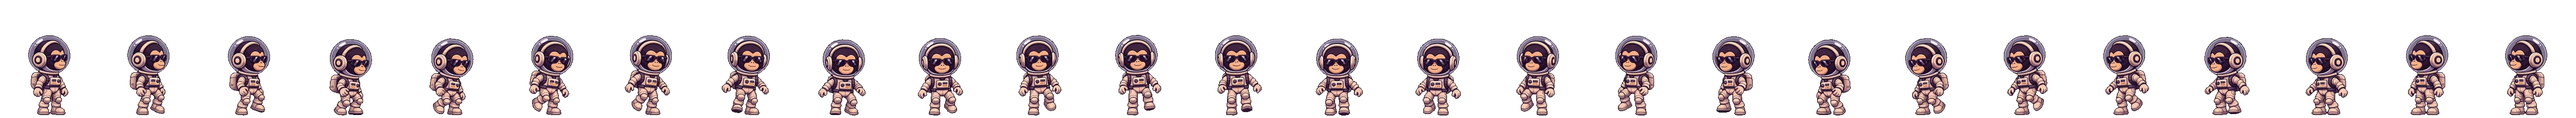
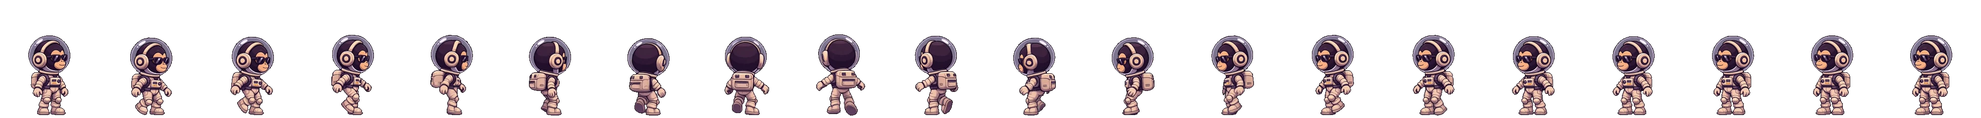
feat(home): 방향 돌기를 깡충 도는 클립으로 교체

diff --git a/apps/web/components/hud/Zannabi.tsx b/apps/web/components/hud/Zannabi.tsx
@@ -16,7 +16,7 @@ const CLIPS: Record<Clip, Spec> = {
   walk: { frames: 14, cols: [14, 14], advance: [0, 6, 7, 8, 10, 6, 12, 3, 7, 8, 11, 8, 6, 9] },
   turn: { frames: 16, cols: [16, 16], advance: [2, 4, 7, 6, 7, 3, 2, 0, 5, 7, 6, 6, 7, 5, 2, 1] },
   'turn-stop': { frames: 8, cols: [8, 8], advance: [12, 13, 0, 0, 0, 0, 0, 0] },
-  'turn-around': { frames: 26, cols: [26, 26], start: 1, fps: 20 },
+  'turn-around': { frames: 20, cols: [20, 20], fps: 18 },
   wave: { frames: 22, cols: [22, 22] },
   look: { frames: 26, cols: [26, 26] },
   yawn: { frames: 26, cols: [26, 26] },

diff --git a/art/scripts/zannabi_v4.py b/art/scripts/zannabi_v4.py
@@ -18,7 +18,7 @@ CLIPS = {
     'walk': ('walkB', list(range(0, 28, 2))),
     'turn': ('turnA', list(range(4, 36, 2))),
     'turn-stop': ('stopA', list(range(30, 46, 2))),
-    'turn-around': ('aroundB', EVEN[1:-1]),
+    'turn-around': ('uturn2', EVEN[1:21]),
     'wave': ('waveVB', EVEN[1:23]),
     'look': ('lookA', EVEN[1:-1]),
     'yawn': ('yawnA', EVEN[1:-1]),

diff --git a/docs/DESIGN.md b/docs/DESIGN.md
@@ -90,7 +90,7 @@
 | **Ask Zannabi** | 공개 글·프로젝트·이력에 관한 질문 | 질문 → 대화 패널, 답변과 원문 링크. 서버가 없어 우선 UI만 (`COMING SOON`) |
 | **레트로 단말기** | Ask Zannabi의 시각적 상징 | 대기 중 커서 깜빡임, 답변 생성 중 화면 변화 |
 | **Arcade 배너** | 대표 미니게임 또는 게임 목록 진입 | `Play`. 게임 전까지 `COMING SOON` |
-| **Zannabi** | 창틀 아래 데크를 걷는 마스코트. 활동 구역은 L(왼쪽 창틀 안쪽 모서리)부터 R = C + (C − L)까지(C는 화면에 렌더된 로고의 가로 중심, 2026-11-19 사용자 지정). R부터 오른쪽 창틀까지는 위젯 영역이고, 경계선은 그리지 않는다 | `Zannabi.tsx`. 레인 폭은 로고 `offsetLeft`로 R − L을 재서 넣고 화면·로고 크기가 바뀌면 다시 잰다. 이동 범위는 보이는 몸의 반폭 64u 기준. **v4 그림체(2026-11-19)**: 의자·데스크와 같은 ChatGPT 그림체로 바꿨다(`art/refs/zannabi-gpt-{style,walk,back}-v1.png` = 대기·걷기·뒷모습 기준). AutoSprite 캐릭터 `zannabi-v4`에 세 자세를 640 캔버스(1.743배, 중심 320, 밑창 544, 헬멧 중심 맞춤)로 올려 모든 클립의 시작·끝을 고정하고, 768px 원본으로 생성한다(작은 캐릭터+큰 캔버스라 광선검·깡충이 잘리지 않음). `art/scripts/zannabi_v4.py`가 한 번 정한 변환(2.08배, 176, 164)으로 칸에 옮기고 가장자리 회색 번짐을 외곽선색으로 바꿔 1배·2배 WebP 띠를 만든다(원본 시트는 저장소 밖 `Downloads/zannabi-v4/raw`, 채택 시트 id는 같은 폴더 `jobs.txt`). 픽셀 합성은 하지 않는다. 클립 21개: 대기(7fps, 숨 사이 1~3초 정지 — 쉬지 않고 숨쉬면 꿈틀거려 보였다), 걷기 시작·걷기(14장, 지지발 템플릿 매칭으로 잰 `advance`)·멈춤, 방향 돌기, 인사, 두리번, 하품, 졸기, 깡충, 광선검, 의자 독서(앉기·책장 넘기기·끄덕임·일어서기), 창밖 보기(뒤돌기·숨쉬기·고개 갸웃·한 손 대기·올려다보기·정면 복귀). 모든 클립 사이 이음매 차이는 1 이하. 클립마다 그리기 범위(box)가 있어 칸 밖으로 나가는 광선검(-52~265u)·깡충도 공통 캔버스에 그린다. 화면 밀도(dpr>1.25)에 맞는 한 벌만 받고, 대기·걷기 계열을 먼저 받은 뒤 나머지는 뒤에서 받는다. 아직 못 받은 클립이 필요한 행동은 고르지 않는다. 행동 가중치: 걷기 40, 두리번 12, 창밖 보기 12, 독서 10, 수련 8, 하품 8, 졸기 6, 깡충 6. 장소 목록(`places`: 독서=의자 중심+22u·오른쪽 보기, 수련=홀로그램 더미 앞 칼끝 240u·오른쪽 보기, 조종=데스크 30%·오른쪽 보기)이 설 자리·바라볼 방향·장면을 한곳에 갖고, 동선 계획기(`route`)가 모든 이동을 맡는다(돌아다니기 포함). 걸음 수를 정하고 보폭을 0.7~1.3배로 맞춰 정확히 도착하며, 걸음 수는 반올림·내림·올림을 차례로 시도한다. 96u보다 가까우면 걷기 반복 없이 출발→멈춤만 하는 짧은 이동(보폭 0.7~1배 = 67~95u, 보폭이 크면 다리가 툭 바뀌어 보여 작게만 쓴다), 그보다 가까우면 한 번 비켜 섰다가(목적지에서 137u 또는 1.5배 떨어진 곳) 다시 온다. 4u 이내면 걷지 않는다. 2026-11-19 추가 클립(모두 대기 자세에서 시작·끝): 마우스가 잔나비 몸 폭의 1.8배 안으로 다가오면 쉬고 있을 때 깜짝 놀라 쳐다본다(notice, 25초 쿨다운). 평소 무작위 행동에 음악(music 6)·춤(dance 5)·저중력 점프(moonjump 5)·기지개(stretch 5)·데크에 앉기(sitdeck 4)·휘청(wobble 3) 추가. 수련 끝에 더미에게 인사(bow). 단말기 장면은 뒤돌기 → 오른쪽 보는 뒷모습으로 두드리기 2번(type=RtypeB) → 정면 복귀하며 42 → 엄지 척(thumbs). 뒷모습 손 높이에 맞춰 드론 데크 자리는 bottom 8cqh, 잔나비는 28u 앞. 버린 후보: 헬멧 닦기·재채기·무전(말풍선 글자). 창밖 보기도 장소다: 의자·데스크·홀로그램·단말기 데크 자리 앞을 피해(몸 반폭만큼 여유) 가장 넓은 빈 데크 가운데로 가서 오른쪽을 보고 뒤돈다(물건 앞에서 창밖을 보면 어색하다, 2026-11-19). 걷는 중에 같은 방향 장소를 요청하면 멈추지 않고 이번 걸음이 끝나는 지점부터 걸음 수·보폭을 다시 맞춰 이어 걷는다(멈췄다 제자리에서 다시 출발하는 게 어색했다). 반대 방향이면 멈추고 돈다. 장소 요청: 의자·데스크·홀로그램 투사기(꺼져 있을 때 보이는 바닥 받침)·잔나비를 누르고 0.9초 버티면(툴팁 게이지가 가득 차면) 독서·조종·수련·인사를 한다. 짧은 클릭이나 올려 두기로는 아무 일도 없고, 중간에 떼면 게이지가 튕기듯 돌아간다. 이미 그 장소로 가는 중이거나 장면을 하는 중이면 무시하고, 마무리 단계(일어서기·정면 복귀 등)면 받아서 끝난 뒤 다시 한다. 끼어들기 규칙(인사·장소 클릭 공통): 앉아 있으면 일어서기만, 조종 중이면 정면 복귀만, 창밖 보기 중이면 정면 복귀만 남기고, 수련은 끝까지 한다. 걷는 중이면 이번 걸음에서 멈추고 남은 장면을 버린 뒤 새 요청을 한다. 대기 중엔 숨 동작 한 바퀴를 기다리지 않고 0번 프레임과 차이가 작은 칸(0~3, 11~14, 23~27)에서 바로 시작해 길어야 1초 안에 반응한다. 인사는 쿨다운 없음, 앉아 있으면 일어선 뒤 인사. 마우스를 올리면 물건 외곽선이 연초록으로 빛나고 위에 툴팁(Read a book·Pilot the ship·Saber training·Say hi + 화살표, 가운데 정렬)이 뜬다. 툴팁은 #262626 알약에 연초록 얇은 테두리, 누르는 동안 왼쪽부터 연초록이 차오르고 찬 부분 글자는 어둡게 반전된다(DesignBookmark Hold Button은 느낌만 참고해 다시 만듦). 동작 줄이기면 대기 첫 프레임만. 조종석: 등받이 없는 의자(`cockpit-stool.webp`, left 16.75cqh, 높이 7.1cqh — 앉는 클립 재생 중엔 숨김)와 데스크(`cockpit-desk.webp`, 오른쪽 끝에 책 더미·메모, left 28.64cqh, bottom 1cqh, 높이 16.74cqh, 조종간 보라 버튼·주황 불빛은 CSS 깜빡임). 수련: 활동 구역 오른쪽 끝의 홀로그램 투사기(`hologram-dummy.webp`, AutoSprite 에셋 애니메이션 h2를 거꾸로 = 빛기둥이 내려와 아래부터 차오름, 끝나면 납작해져 빛기둥으로 꺼짐, 초록 그대로) 앞에서 광선검을 휘두르고, 칼끝이 닿는 프레임에 더미가 번쩍이고 흔들린다. 광선검은 끝까지 오른쪽을 보고 베고 찌르는 saberS1·saberS3 중 무작위(2026-11-19, 몸을 돌려 반대쪽을 베던 saberA 교체). 칼과 궤적이 768 생성 칸 밖으로 잘리지 않게 대기 자세를 0.8배로 줄인 'V4 Idle Small 0.8'에서 생성하고, 빌드 스크립트의 클립별 배율(fit)로 같은 크기로 되돌린다. 칼끝 기준 거리 SABER_REACH 250u. 잔나비 캔버스는 궤적을 담으려 -60~360u, 위로 -60u까지 넓혔다. 조종(가중치 10): 데스크 왼쪽에서 30% 지점(왼손이 조종간, 오른손이 주황 버튼 위)으로 걸어가 뒤돌고, 맨손 콘솔 조작 클립(AI가 콘솔을 따로 그린 후보는 뺐다)을 하는 동안 데스크 불빛이 빨라진다. Deep Thought 단말기(2026-11-19, 받침대형에서 사용자 요청으로 떠다니는 드론형 `art/refs/cockpit/terminal-drone-gpt-v1.png`, 데스크와 홀로그램 사이 left 66cqh). 움직임은 AutoSprite 에셋 'Deep Thought Drone v1'의 C안(눌렸다 솟구치며 라벤더 불꽃, 49장 21fps 반복)이다. 화면 글자를 겹치려고 프레임마다 화면 중심을 고정한 띠(`cockpit-drone.webp`)로 만들고, 원래 오르내림은 `DRONE_DY` 표로 코드에서 되살린다(그림자는 높이에 따라 줄었다 늘어남). 평소엔 로고 아래 하늘(left 24~58cqh, bottom 26~40cqh)을 통통 뛸 때마다 70% 확률로 새 자리로 1.2초 날아다니고(그림자 없음), 'ask'가 시작되면(call) 데크 자리(left 66cqh, bottom 3.6cqh)로 1.6초 날아와 앉고, 두드리기가 시작되면 정지 프레임에서 멈춘다(그림자 보임), 잔나비는 두 손으로 두드리는 `type`(type2, 25장) 클립을 한다: 화면은 코드로 그린다. 평소 COMPUTING_(커서 깜빡임), 장소 'ask'(가중치 6, 단말기 데크 자리 왼쪽 38u 앞에서 오른쪽 보기)에 가면 두드리는 동안 16진수가 뒤섞이고(compute), 대기로 돌아오며 42가 4.5초 뜬다(answer). 툴팁 Ask Deep Thought. 나중에 Ask Zannabi 입구. 데스크 위 지구본 홀로그램: AutoSprite 돌기 A(24장 반복, 10.5fps)와 사라지기 B(25장, 거꾸로 = 나타나기, 21fps), 조종 시작·끝에 맞춰 켜지고 꺼진다. 빛기둥은 뺐다. 창 유리 HUD(`components/space/CockpitHud.tsx`, `cockpit:hud` 이벤트)는 우측 상단 행성 왼쪽 위(930,140)의 작은 [+] 조준 괄호(반지름 11, 선 굵기 2.2, 연결선 1.5, 글자만 8.5px = 1080p에서 약 13px)와 짧은 연결선, 문구 한 줄(TARGET: KEPLER-442b · 4.2 AU)뿐이다(2026-11-19, 예전 GPT 시안의 조준 문구 그대로의 크기). 괄호가 조여 들어오고 연결선이 그려진 뒤 문구가 스크램블로 나타나며, 켜진 뒤엔 5초마다 한 번 살짝 지지직. 1280×720 SVG(slice)라 화면 크기와 상관없이 행성에 맞는다. 큰 조준선·행성 격자 스캔(AutoSprite로 시험)은 과하다고 해서 뺐다. 데스크 홀로그램(레이더 화면 위 지구본)은 GPT 그림 → AutoSprite로 만들 예정. 인사가 오면 남은 조작을 버리고 정면 복귀. 데스크에서는 오른쪽을 보고 선 뒤 뒤돈다. 돌기 장면은 정지 꼬리를 잘라 빠르게: 방향 돌기 20fps(첫 장 제외), 뒤돌기·정면 복귀 16fps. 뒷모습은 머리와 몸이 같이 오른쪽을 보는 `art/refs/zannabi-gpt-back-v2.png`(v1은 머리는 오른쪽·몸은 왼쪽이라 비틀려 보였다)를 AutoSprite 자세 'V4 Back Right Padded'로 올려 다시 만들었다: 뒤돌기 RbackB(한 걸음), 정면 복귀 RfrontA, 콘솔 RconsoleA→RconsoleB(두 번째 조작), 숨쉬기 RbreatheA, 창밖 보기는 올려다보기 RlookupB 하나(갸웃·손 대기는 뺐다). 인사는 정면으로 돌아서 화면 쪽(방문자)에게 "안녕" 하고 흔드는 `waveVB`(옆을 보고 흔들던 waveB 교체). 시행착오: 프롬프트에 window·stars를 쓰면 배경에 그려진다, 뒷모습 클립에서 '돌아본다'고 쓰면 얼굴을 이쪽으로 돌린다, AutoSprite 정지 소품은 그림체가 달라 쓰지 않는다 |
+| **Zannabi** | 창틀 아래 데크를 걷는 마스코트. 활동 구역은 L(왼쪽 창틀 안쪽 모서리)부터 R = C + (C − L)까지(C는 화면에 렌더된 로고의 가로 중심, 2026-11-19 사용자 지정). R부터 오른쪽 창틀까지는 위젯 영역이고, 경계선은 그리지 않는다 | `Zannabi.tsx`. 레인 폭은 로고 `offsetLeft`로 R − L을 재서 넣고 화면·로고 크기가 바뀌면 다시 잰다. 이동 범위는 보이는 몸의 반폭 64u 기준. **v4 그림체(2026-11-19)**: 의자·데스크와 같은 ChatGPT 그림체로 바꿨다(`art/refs/zannabi-gpt-{style,walk,back}-v1.png` = 대기·걷기·뒷모습 기준). AutoSprite 캐릭터 `zannabi-v4`에 세 자세를 640 캔버스(1.743배, 중심 320, 밑창 544, 헬멧 중심 맞춤)로 올려 모든 클립의 시작·끝을 고정하고, 768px 원본으로 생성한다(작은 캐릭터+큰 캔버스라 광선검·깡충이 잘리지 않음). `art/scripts/zannabi_v4.py`가 한 번 정한 변환(2.08배, 176, 164)으로 칸에 옮기고 가장자리 회색 번짐을 외곽선색으로 바꿔 1배·2배 WebP 띠를 만든다(원본 시트는 저장소 밖 `Downloads/zannabi-v4/raw`, 채택 시트 id는 같은 폴더 `jobs.txt`). 픽셀 합성은 하지 않는다. 클립 21개: 대기(7fps, 숨 사이 1~3초 정지 — 쉬지 않고 숨쉬면 꿈틀거려 보였다), 걷기 시작·걷기(14장, 지지발 템플릿 매칭으로 잰 `advance`)·멈춤, 방향 돌기, 인사, 두리번, 하품, 졸기, 깡충, 광선검, 의자 독서(앉기·책장 넘기기·끄덕임·일어서기), 창밖 보기(뒤돌기·숨쉬기·고개 갸웃·한 손 대기·올려다보기·정면 복귀). 모든 클립 사이 이음매 차이는 1 이하. 클립마다 그리기 범위(box)가 있어 칸 밖으로 나가는 광선검(-52~265u)·깡충도 공통 캔버스에 그린다. 화면 밀도(dpr>1.25)에 맞는 한 벌만 받고, 대기·걷기 계열을 먼저 받은 뒤 나머지는 뒤에서 받는다. 아직 못 받은 클립이 필요한 행동은 고르지 않는다. 행동 가중치: 걷기 40, 두리번 12, 창밖 보기 12, 독서 10, 수련 8, 하품 8, 졸기 6, 깡충 6. 장소 목록(`places`: 독서=의자 중심+22u·오른쪽 보기, 수련=홀로그램 더미 앞 칼끝 240u·오른쪽 보기, 조종=데스크 30%·오른쪽 보기)이 설 자리·바라볼 방향·장면을 한곳에 갖고, 동선 계획기(`route`)가 모든 이동을 맡는다(돌아다니기 포함). 걸음 수를 정하고 보폭을 0.7~1.3배로 맞춰 정확히 도착하며, 걸음 수는 반올림·내림·올림을 차례로 시도한다. 96u보다 가까우면 걷기 반복 없이 출발→멈춤만 하는 짧은 이동(보폭 0.7~1배 = 67~95u, 보폭이 크면 다리가 툭 바뀌어 보여 작게만 쓴다), 그보다 가까우면 한 번 비켜 섰다가(목적지에서 137u 또는 1.5배 떨어진 곳) 다시 온다. 4u 이내면 걷지 않는다. 2026-11-19 추가 클립(모두 대기 자세에서 시작·끝): 마우스가 잔나비 몸 폭의 1.8배 안으로 다가오면 쉬고 있을 때 깜짝 놀라 쳐다본다(notice, 25초 쿨다운). 평소 무작위 행동에 음악(music 6)·춤(dance 5)·저중력 점프(moonjump 5)·기지개(stretch 5)·데크에 앉기(sitdeck 4)·휘청(wobble 3) 추가. 수련 끝에 더미에게 인사(bow). 단말기 장면은 뒤돌기 → 오른쪽 보는 뒷모습으로 두드리기 2번(type=RtypeB) → 정면 복귀하며 42 → 엄지 척(thumbs). 뒷모습 손 높이에 맞춰 드론 데크 자리는 bottom 8cqh, 잔나비는 28u 앞. 버린 후보: 헬멧 닦기·재채기·무전(말풍선 글자). 창밖 보기도 장소다: 의자·데스크·홀로그램·단말기 데크 자리 앞을 피해(몸 반폭만큼 여유) 가장 넓은 빈 데크 가운데로 가서 오른쪽을 보고 뒤돈다(물건 앞에서 창밖을 보면 어색하다, 2026-11-19). 걷는 중에 같은 방향 장소를 요청하면 멈추지 않고 이번 걸음이 끝나는 지점부터 걸음 수·보폭을 다시 맞춰 이어 걷는다(멈췄다 제자리에서 다시 출발하는 게 어색했다). 반대 방향이면 멈추고 돈다. 장소 요청: 의자·데스크·홀로그램 투사기(꺼져 있을 때 보이는 바닥 받침)·잔나비를 누르고 0.9초 버티면(툴팁 게이지가 가득 차면) 독서·조종·수련·인사를 한다. 짧은 클릭이나 올려 두기로는 아무 일도 없고, 중간에 떼면 게이지가 튕기듯 돌아간다. 이미 그 장소로 가는 중이거나 장면을 하는 중이면 무시하고, 마무리 단계(일어서기·정면 복귀 등)면 받아서 끝난 뒤 다시 한다. 끼어들기 규칙(인사·장소 클릭 공통): 앉아 있으면 일어서기만, 조종 중이면 정면 복귀만, 창밖 보기 중이면 정면 복귀만 남기고, 수련은 끝까지 한다. 걷는 중이면 이번 걸음에서 멈추고 남은 장면을 버린 뒤 새 요청을 한다. 대기 중엔 숨 동작 한 바퀴를 기다리지 않고 0번 프레임과 차이가 작은 칸(0~3, 11~14, 23~27)에서 바로 시작해 길어야 1초 안에 반응한다. 인사는 쿨다운 없음, 앉아 있으면 일어선 뒤 인사. 마우스를 올리면 물건 외곽선이 연초록으로 빛나고 위에 툴팁(Read a book·Pilot the ship·Saber training·Say hi + 화살표, 가운데 정렬)이 뜬다. 툴팁은 #262626 알약에 연초록 얇은 테두리, 누르는 동안 왼쪽부터 연초록이 차오르고 찬 부분 글자는 어둡게 반전된다(DesignBookmark Hold Button은 느낌만 참고해 다시 만듦). 동작 줄이기면 대기 첫 프레임만. 조종석: 등받이 없는 의자(`cockpit-stool.webp`, left 16.75cqh, 높이 7.1cqh — 앉는 클립 재생 중엔 숨김)와 데스크(`cockpit-desk.webp`, 오른쪽 끝에 책 더미·메모, left 28.64cqh, bottom 1cqh, 높이 16.74cqh, 조종간 보라 버튼·주황 불빛은 CSS 깜빡임). 수련: 활동 구역 오른쪽 끝의 홀로그램 투사기(`hologram-dummy.webp`, AutoSprite 에셋 애니메이션 h2를 거꾸로 = 빛기둥이 내려와 아래부터 차오름, 끝나면 납작해져 빛기둥으로 꺼짐, 초록 그대로) 앞에서 광선검을 휘두르고, 칼끝이 닿는 프레임에 더미가 번쩍이고 흔들린다. 광선검은 끝까지 오른쪽을 보고 베고 찌르는 saberS1·saberS3 중 무작위(2026-11-19, 몸을 돌려 반대쪽을 베던 saberA 교체). 칼과 궤적이 768 생성 칸 밖으로 잘리지 않게 대기 자세를 0.8배로 줄인 'V4 Idle Small 0.8'에서 생성하고, 빌드 스크립트의 클립별 배율(fit)로 같은 크기로 되돌린다. 칼끝 기준 거리 SABER_REACH 250u. 잔나비 캔버스는 궤적을 담으려 -60~360u, 위로 -60u까지 넓혔다. 조종(가중치 10): 데스크 왼쪽에서 30% 지점(왼손이 조종간, 오른손이 주황 버튼 위)으로 걸어가 뒤돌고, 맨손 콘솔 조작 클립(AI가 콘솔을 따로 그린 후보는 뺐다)을 하는 동안 데스크 불빛이 빨라진다. Deep Thought 단말기(2026-11-19, 받침대형에서 사용자 요청으로 떠다니는 드론형 `art/refs/cockpit/terminal-drone-gpt-v1.png`, 데스크와 홀로그램 사이 left 66cqh). 움직임은 AutoSprite 에셋 'Deep Thought Drone v1'의 C안(눌렸다 솟구치며 라벤더 불꽃, 49장 21fps 반복)이다. 화면 글자를 겹치려고 프레임마다 화면 중심을 고정한 띠(`cockpit-drone.webp`)로 만들고, 원래 오르내림은 `DRONE_DY` 표로 코드에서 되살린다(그림자는 높이에 따라 줄었다 늘어남). 평소엔 로고 아래 하늘(left 24~58cqh, bottom 26~40cqh)을 통통 뛸 때마다 70% 확률로 새 자리로 1.2초 날아다니고(그림자 없음), 'ask'가 시작되면(call) 데크 자리(left 66cqh, bottom 3.6cqh)로 1.6초 날아와 앉고, 두드리기가 시작되면 정지 프레임에서 멈춘다(그림자 보임), 잔나비는 두 손으로 두드리는 `type`(type2, 25장) 클립을 한다: 화면은 코드로 그린다. 평소 COMPUTING_(커서 깜빡임), 장소 'ask'(가중치 6, 단말기 데크 자리 왼쪽 38u 앞에서 오른쪽 보기)에 가면 두드리는 동안 16진수가 뒤섞이고(compute), 대기로 돌아오며 42가 4.5초 뜬다(answer). 툴팁 Ask Deep Thought. 나중에 Ask Zannabi 입구. 데스크 위 지구본 홀로그램: AutoSprite 돌기 A(24장 반복, 10.5fps)와 사라지기 B(25장, 거꾸로 = 나타나기, 21fps), 조종 시작·끝에 맞춰 켜지고 꺼진다. 빛기둥은 뺐다. 창 유리 HUD(`components/space/CockpitHud.tsx`, `cockpit:hud` 이벤트)는 우측 상단 행성 왼쪽 위(930,140)의 작은 [+] 조준 괄호(반지름 11, 선 굵기 2.2, 연결선 1.5, 글자만 8.5px = 1080p에서 약 13px)와 짧은 연결선, 문구 한 줄(TARGET: KEPLER-442b · 4.2 AU)뿐이다(2026-11-19, 예전 GPT 시안의 조준 문구 그대로의 크기). 괄호가 조여 들어오고 연결선이 그려진 뒤 문구가 스크램블로 나타나며, 켜진 뒤엔 5초마다 한 번 살짝 지지직. 1280×720 SVG(slice)라 화면 크기와 상관없이 행성에 맞는다. 큰 조준선·행성 격자 스캔(AutoSprite로 시험)은 과하다고 해서 뺐다. 데스크 홀로그램(레이더 화면 위 지구본)은 GPT 그림 → AutoSprite로 만들 예정. 인사가 오면 남은 조작을 버리고 정면 복귀. 데스크에서는 오른쪽을 보고 선 뒤 뒤돈다. 돌기 장면은 정지 꼬리를 잘라 빠르게: 방향 돌기는 가볍게 깡충 뛰며 도는 uturn2(2026-11-19, 제자리에서 여러 걸음 디디던 aroundB 교체, 20장 18fps), 뒤돌기·정면 복귀 16fps. 뒷모습은 머리와 몸이 같이 오른쪽을 보는 `art/refs/zannabi-gpt-back-v2.png`(v1은 머리는 오른쪽·몸은 왼쪽이라 비틀려 보였다)를 AutoSprite 자세 'V4 Back Right Padded'로 올려 다시 만들었다: 뒤돌기 RbackB(한 걸음), 정면 복귀 RfrontA, 콘솔 RconsoleA→RconsoleB(두 번째 조작), 숨쉬기 RbreatheA, 창밖 보기는 올려다보기 RlookupB 하나(갸웃·손 대기는 뺐다). 인사는 정면으로 돌아서 화면 쪽(방문자)에게 "안녕" 하고 흔드는 `waveVB`(옆을 보고 흔들던 waveB 교체). 시행착오: 프롬프트에 window·stars를 쓰면 배경에 그려진다, 뒷모습 클립에서 '돌아본다'고 쓰면 얼굴을 이쪽으로 돌린다, AutoSprite 정지 소품은 그림체가 달라 쓰지 않는다 |
 | **카피라이트** | `© 2026 Deep Thought. All rights reserved.` | 오른쪽 아래(유리 오른쪽 5%, 바닥 28px), 모노플렉스 KR 14px·400, 크림 그대로(흐리게 하지 않음) |
 
 - **로고:** 유리 칸 폭의 32%(1080p 약 520px), 왼쪽 칸의 위 19cqh·왼쪽 9%(2026-11-19 12cqh에서 두 번 내림) (2026-11-18 Zannabi 자리를 넓히려고 좌상단으로 옮김), 원본 그림을 매끄럽게 줄여 쓴다. 420칸 픽셀 아트로 다시 찍어 정수·0.25배로 키우는 방식은 원본보다 거칠고 1.25배에서 깨져 보여 버렸다. 반짝이·토성·그려지는 등장 효과도 없앴다 (2026-11-18)
